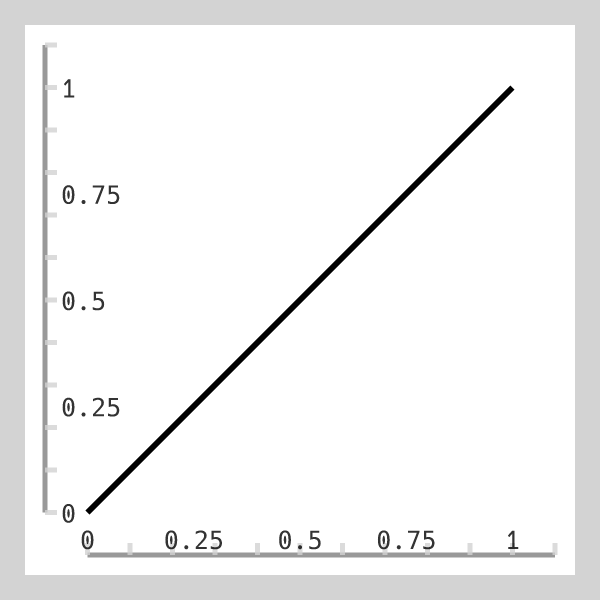
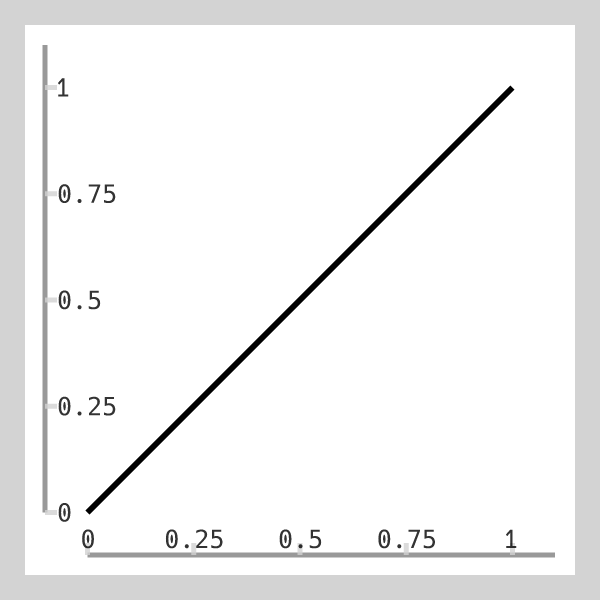
control better tick value printing

diff --git a/Tutorials/FirstTutorial.md b/Tutorials/FirstTutorial.md
@@ -1022,7 +1022,8 @@ We can also redefine keys taken from persisted namespaces and use in further def
 
 ```bash
 echo '[[1,1]]' | zsat draw \
--s 'use sleek as s, s::e0, s::b0, a0: s::a0{ticks:[pos:0,0.1,..,1.1],values:[vals:0,0.25,0.5,0.75,1.0]}, a1: a0{ticks:[style:[f:below]],values:[style: [f:below, a: -90, e:start]]}' \
+-s 'use sleek as s, s::e0, s::b0, a0: s::a0{ticks:[pos:0,0.25,0.5, 0.75,1],values:[vals:0,0.25,0.5,0.75,1.0]},
+    a1: a0{ticks:[style:[f:below]],values:[style: [f:below, a: -90, e:start]]}' \
 -o '(out) -> (out, ft {(0,-0.1)} {(1.1,-0.1)} a0, ft {(-0.1,0)} {(-0.1,1.1)} a1)' \
 -p 'p0:{size: 600x600, border: s::b0}'
 ```
